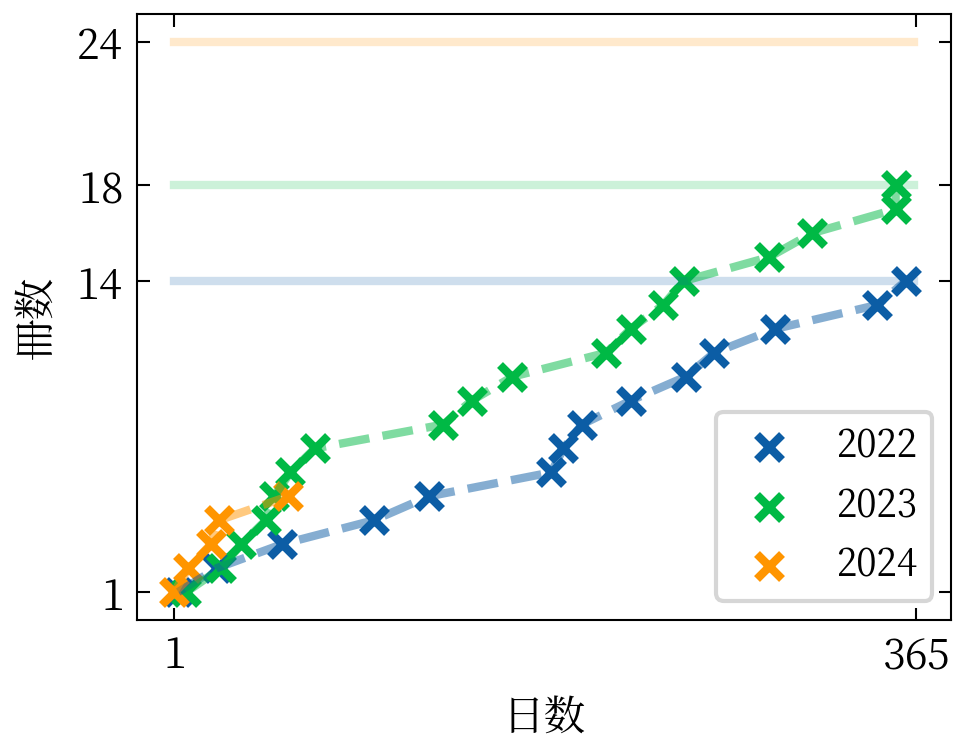
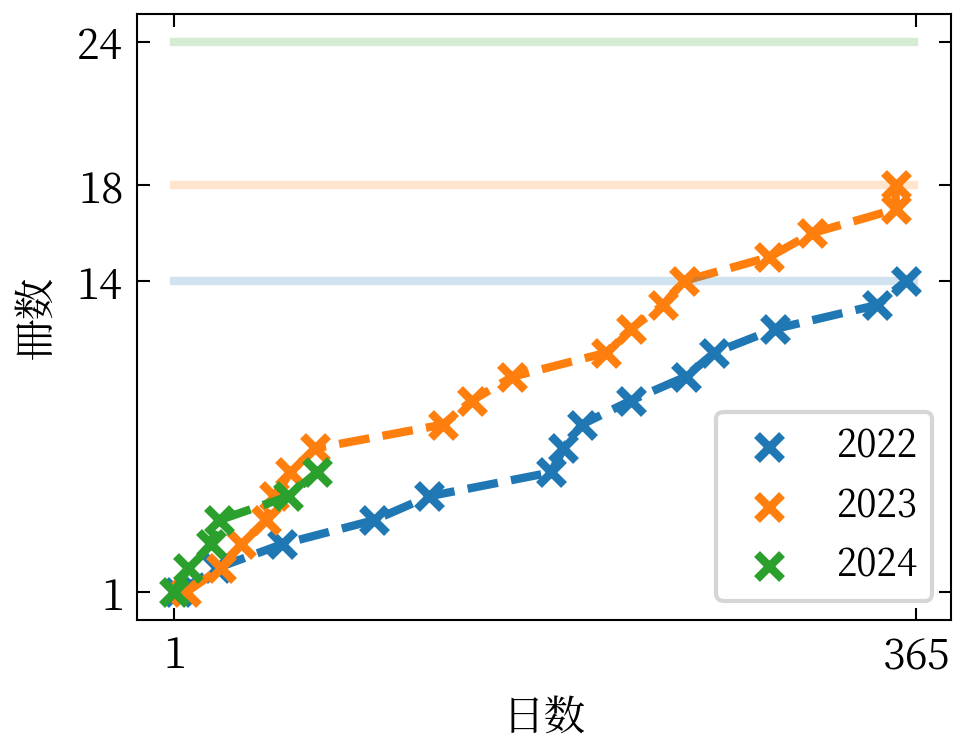
update jp book

diff --git a/src/markdown/projects/jp_manabu.md b/src/markdown/projects/jp_manabu.md
@@ -1,7 +1,7 @@
 ---
 title: '日本語学ぶ'
 date: '2022-01-03'
-modi: '2024-02-27'
+modi: '2024-03-12'
 ---
 
 日本語興味はありますから、学んでいます。始まり時は２０２０年０８月の頃です。それ以来、僕は大体毎日勉強しました。暗記アプリ、動画見たりと読書は僕の勉強方法です。
@@ -20,13 +20,14 @@ modi: '2024-02-27'
 
 [![bookyears](/images/bookyears.png)](/images/bookyears.png)
 
-２０２４「５冊」
+２０２４「６冊」
 
 1. [ティアムーン帝国物語１](https://bookmeter.com/books/13725946) (２０２４.０１.０２)
 2. [小説 ブルーピリオド あの日の僕ら](https://bookmeter.com/books/21628896) (２０２４.０１.０９)
 3. [走ることについて語るときに僕の語ること](https://www.goodreads.com/book/show/8474109) (２０２４.０１.２０)
 4. [冬にそむく](https://bookmeter.com/books/20977727) (２０２４.０１.２４)
-5. [異世界迷宮の最深部を目指そう 1](https://bookmeter.com/books/8172483) (２０２４.０１.２４)
+5. [異世界迷宮の最深部を目指そう 1](https://bookmeter.com/books/8172483) (２０２４.０２.２７)
+6. [異世界迷宮の最深部を目指そう 2](https://bookmeter.com/books/8338317) (２０２４.０３.１２)
 
 ２０２３「１８冊」
 
